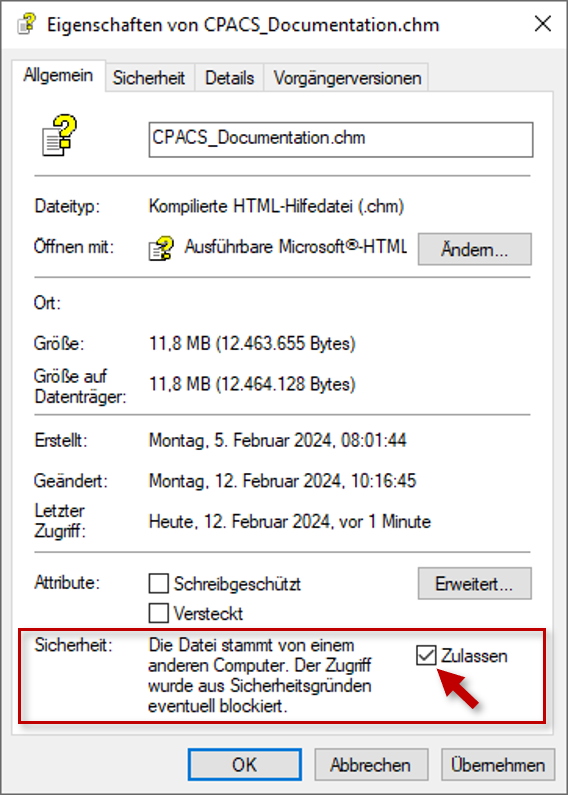
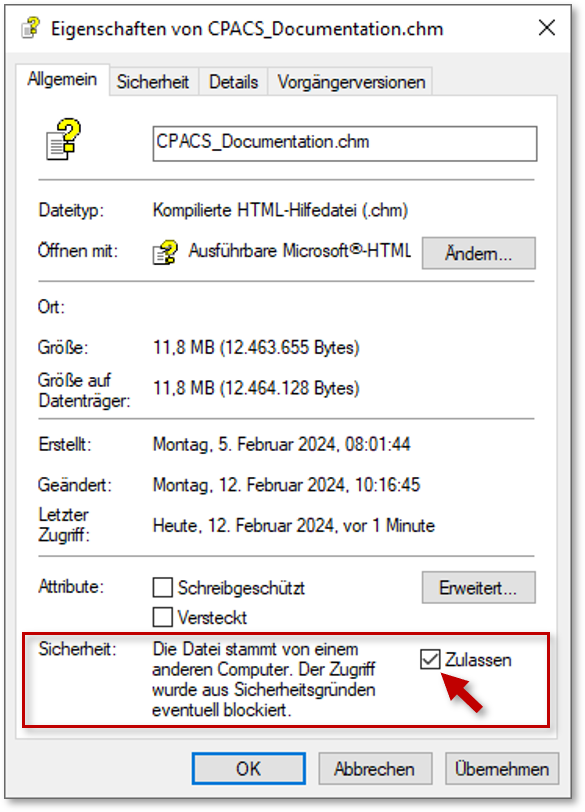
add note to set chm security checkbox

Changed region(s): [[0.0, 0.0, 1.0, 1.0], [0.3592, 0.0906, 0.7482, 0.1208]]

diff --git a/content/pages/4_documentation.html b/content/pages/4_documentation.html
@@ -60,7 +60,10 @@
                             <div class="feature-image">
                                 <img width="300px" src="images/accept_security.png" />
                             </div>
-                        </div>
+							<p style="margin-left: 20px">
+								<b>Note:</b> After downloading the documentation in .chm format, the content may not be displayed at first. In this case, right-click to open the properties window and check the Security box at the bottom right. 
+							</p>
+						</div>
                     </div>
                     <!-- /.row -->
                 </div>
